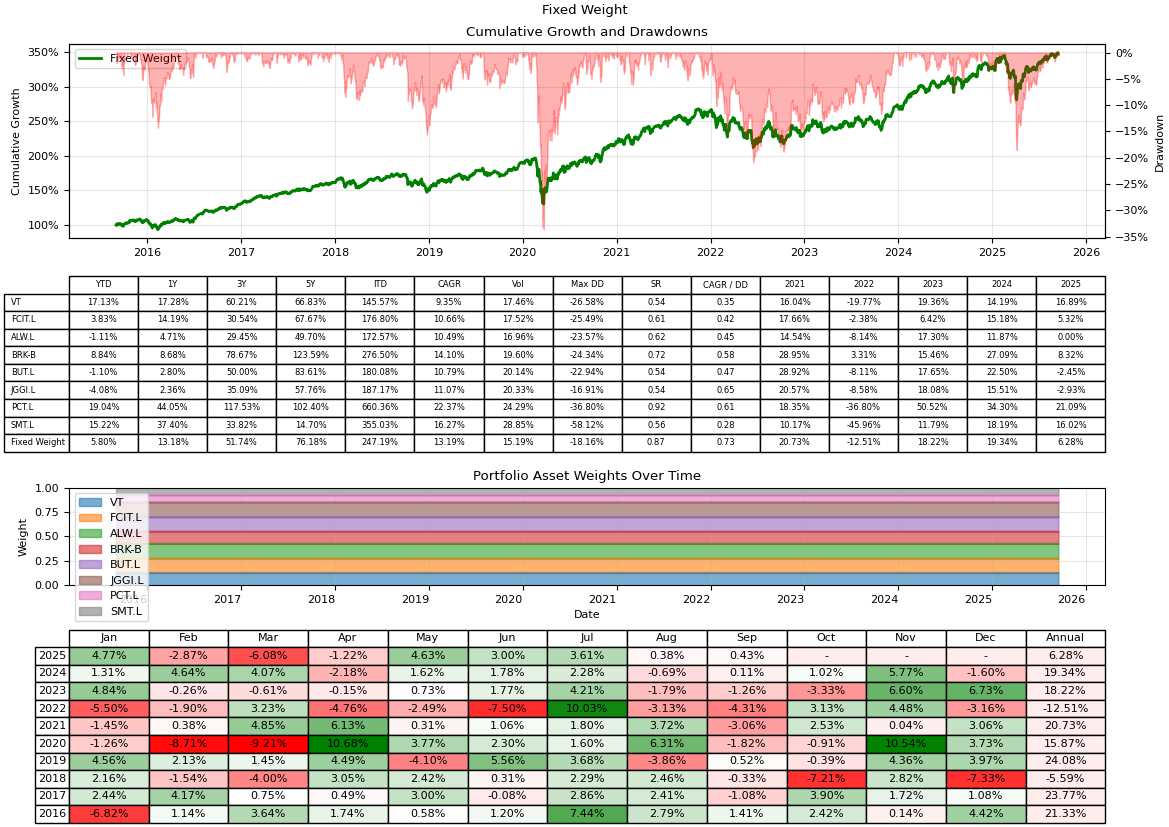
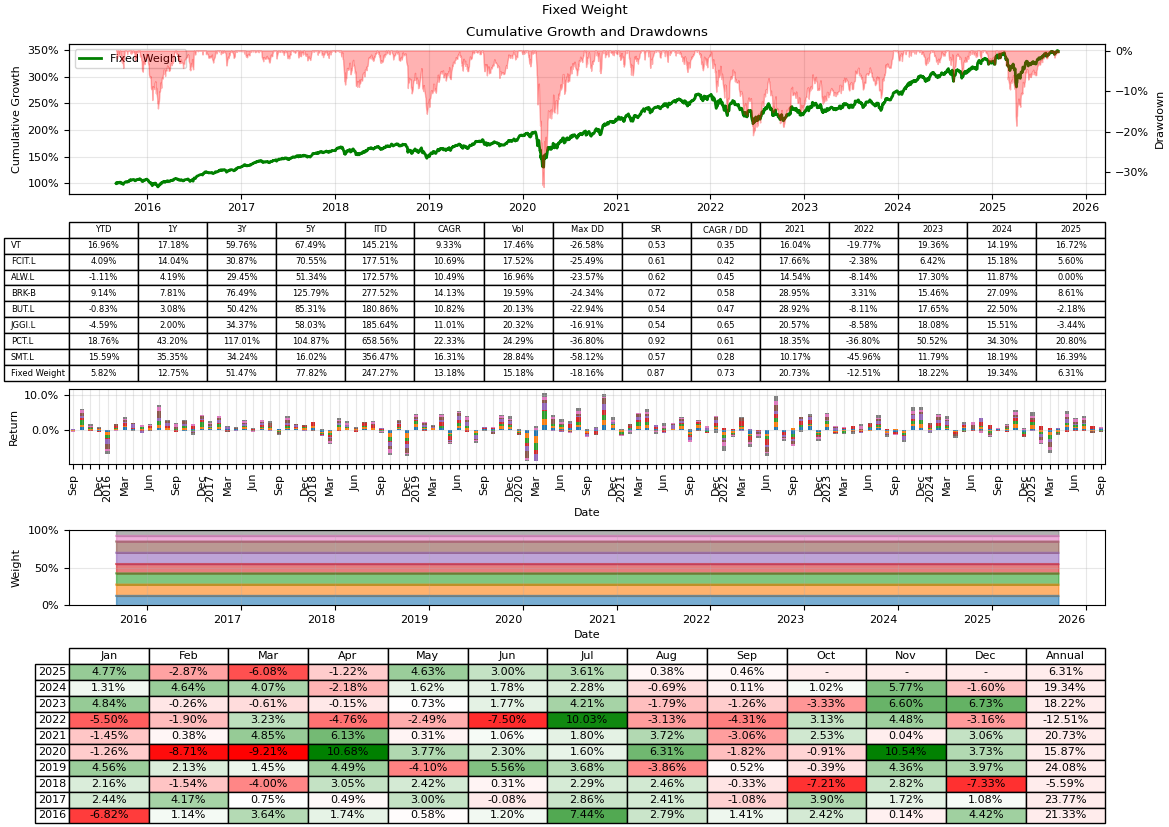
update plots

diff --git a/src/pypension/backtest.py b/src/pypension/backtest.py
@@ -65,22 +65,40 @@ class BacktestResult:
 
     @staticmethod
     def _plot_asset_contribution_over_time(ax: plt.Axes, returns_df: pd.DataFrame):
-        plt.stackplot(
-            pa.resample_returns(returns_df, "ME").index,
-            *pa.resample_returns(returns_df, "ME").T.to_numpy(np.float64),
-        )
+        def _label_format(ts: pd.Timestamp) -> str:
+            label = ""
+
+            if ts.month % 3 == 0:
+                label = ts.month_name()[:3]
+
+            if ts.month == 1:
+                label = ts.year
+
+            return label
+
+        df_eom = pa.resample_returns(returns_df, "ME")
+        df_eom.plot.bar(stacked=True, ax=ax)
+
+        ax.grid(True, alpha=0.3)
+        ax.get_legend().remove()
+
+        ax.set_xticklabels(map(_label_format, df_eom.index))
+        ax.set_ylabel("Return")
+        ax.yaxis.set_major_formatter(mtick.PercentFormatter(xmax=1.0, decimals=1))
 
     @staticmethod
     def _plot_asset_weights_over_time(ax: plt.Axes, weights_df: pd.DataFrame):
         weights_df.plot.area(ax=ax, stacked=True, alpha=0.6)
 
-        ax.set_title("Portfolio Asset Weights Over Time")
-        ax.set_ylabel("Weight")
-        ax.xaxis.set_major_locator(mdates.YearLocator())
+        ax.grid(True, alpha=0.3)
+        ax.get_legend().remove()
+
         ax.tick_params(axis="x", labelrotation=0)
-        ax.grid(True, alpha=0.3)  # Add faint grid lines
-        ax.legend(loc="upper left")
+        ax.xaxis.set_major_locator(mdates.YearLocator())
+
+        ax.set_ylabel("Weight")
         ax.set_ylim(0, 1)
+        ax.yaxis.set_major_formatter(mtick.PercentFormatter(xmax=1.0, decimals=0))
 
     @staticmethod
     def _column_format_func(
@@ -197,7 +215,7 @@ class BacktestResult:
             nrows=5,
             ncols=1,
             figsize=(11.69, 8.27),
-            gridspec_kw={"height_ratios": [2, 2, 1, 1]},
+            gridspec_kw={"height_ratios": [2, 2, 1, 1, 1]},
             layout="constrained",
         )
 
@@ -214,7 +232,9 @@ class BacktestResult:
         )
 
         # 3) asset contribution over time (stack plot)
-        self._plot_asset_contribution_over_time(axs[2], df_returns.drop(label, axis="columns"))
+        self._plot_asset_contribution_over_time(
+            axs[2], df_returns.drop(label, axis="columns") * df_weights
+        )
 
         # 4) asset weights over time (area plot)
         self._plot_asset_weights_over_time(axs[3], df_weights)
